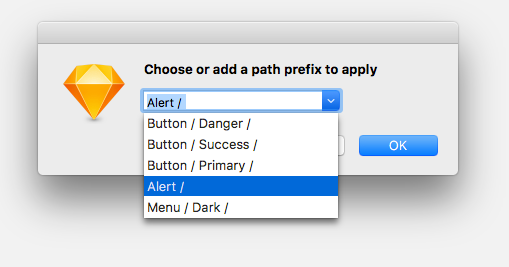
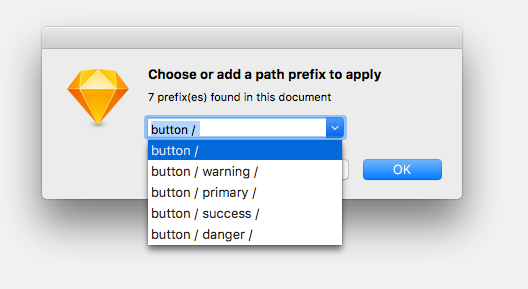
Prefix count added to alert box

Changed region(s): [[0.0589, 0.1498, 0.9136, 0.8989], [0.0884, 0.0599, 0.8841, 0.0899]]

diff --git a/prefixManager.sketchplugin/Contents/Sketch/prefixManager.js b/prefixManager.sketchplugin/Contents/Sketch/prefixManager.js
@@ -23,6 +23,7 @@ var onRun = function(context) {
 
 function createSelect(msg, items, selectedItemIndex){
   selectedItemIndex = selectedItemIndex || 0
+  var itemsCount = items.length
 
   var accessory = NSComboBox.alloc().initWithFrame(NSMakeRect(0,0,200,25))
   accessory.addItemsWithObjectValues(items)
@@ -30,6 +31,7 @@ function createSelect(msg, items, selectedItemIndex){
 
   var alert = NSAlert.alloc().init()
   alert.setMessageText(msg)
+  alert.setInformativeText(itemsCount + " prefix(es) found in this document")
   alert.addButtonWithTitle('OK')
   alert.addButtonWithTitle('Cancel')
   alert.setAccessoryView(accessory)

diff --git a/README.md b/README.md
@@ -17,8 +17,9 @@ For example, "Folder 1 / Folder 2 / Layername" will become "Layername".
 
 ## Screenshots
 
-![Example](screenshots/menu.png?raw=true "Example")
 ![Example](screenshots/prefixManager.png?raw=true "Example")
+
+![Example](screenshots/menu.png?raw=true "Example")
 
 
 ## Keyboard Shortcuts
